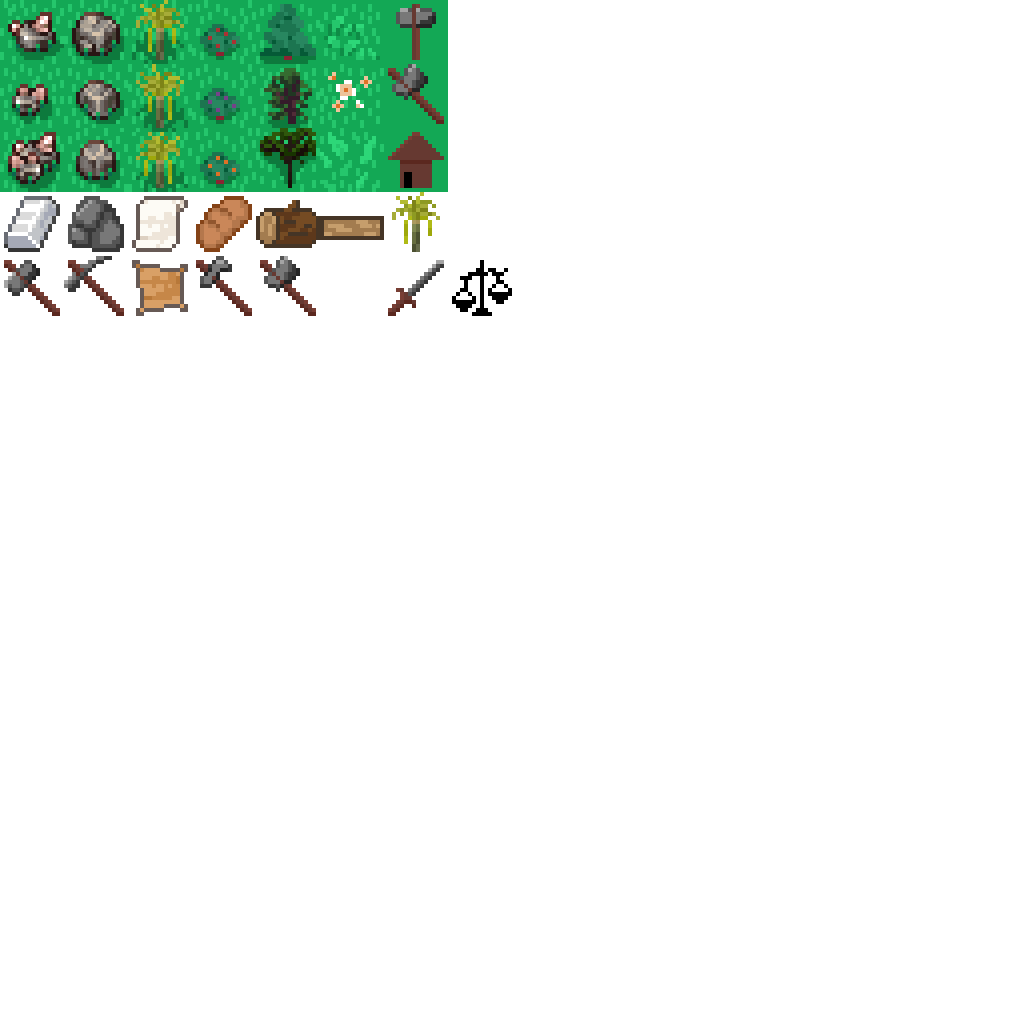
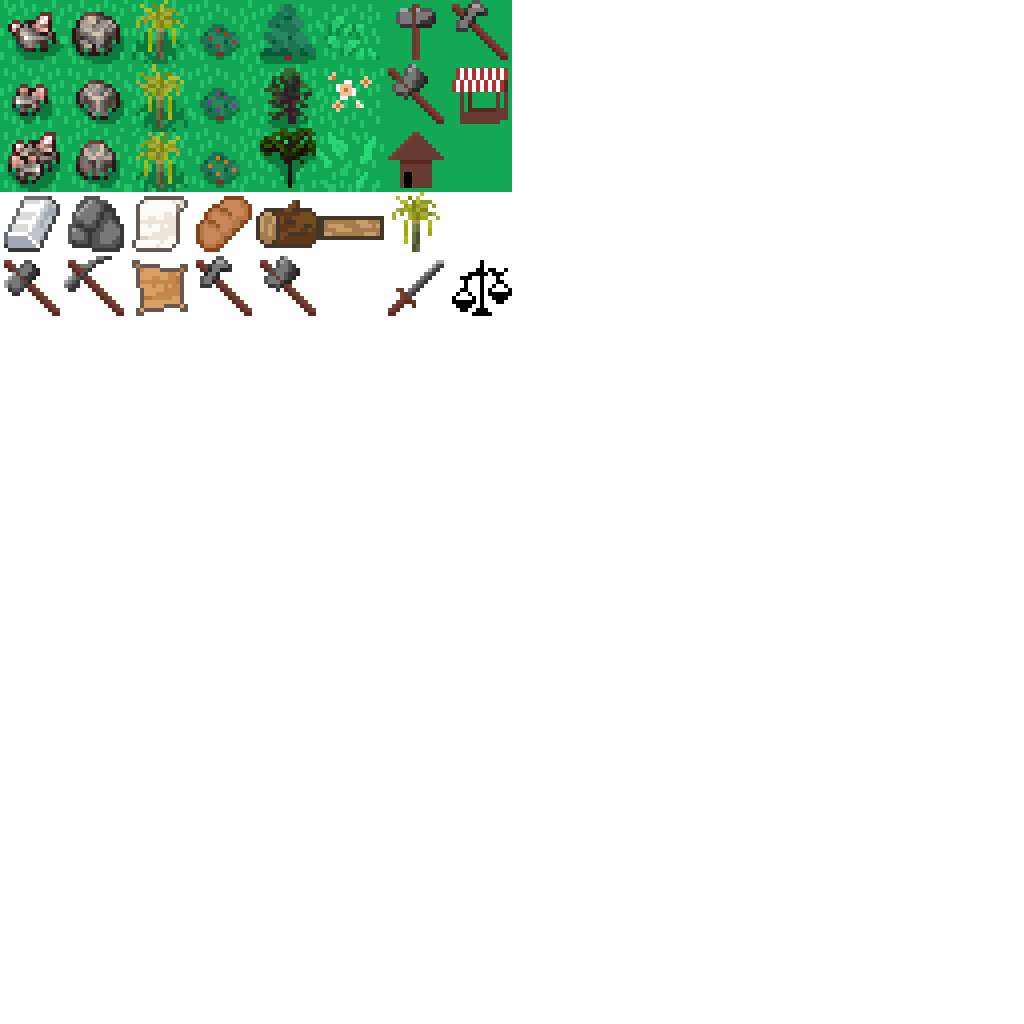
Added gatherers hut Added food market

Changed region(s): [[0.4375, 0.0, 0.5, 0.1875]]

diff --git a/static/js/data.js b/static/js/data.js
@@ -30,55 +30,83 @@ function logData() {
 }
 
 // BUILDINGS
-function getBuildingData(type, id, x, y) {
-    switch(type) {
-        case "buildersHut":
-            return {
-                id: id,
-                x: x,
-                y: y,
-                citizens: [],
-                max_citizens: 3,
-                add_citizen: true,
-                function: {
-                    status: "unstaffed",
-                    available_citizens: [],
-                    onDayStart: (building) => {},
-                }
-            }
-
-        case "lumberCamp":
-            return {
-                id: id,
-                x: x,
-                y: y,
-                citizens: [],
-                max_citizens: 3,
-                add_citizen: true,
-                function: {
-                    radius: 1,
-                    status: "unstaffed",
-                    onDayStart: (building) => {
-                        startLumberCamp(building)
-                    },
-                }
-            }
-
-        case "house":
-            return {
-                id: id,
-                x: x,
-                y: y,
-                citizens: [],
-                max_citizens: 8,
-                private: false,
-                add_citizen: false,
-                function: {
-                    onDayStart: (building) => {},
-                }
-            }
+const baseBuildingTemplate = {
+    init(id, x, y) {
+        this.id = id;
+        this.x = x;
+        this.y = y;
+        this.citizens = [];
+        this.max_citizens = 3;
+        this.add_citizen = true;
     }
-}
+};
+
+const buildingTypes = {
+    buildersHut: {
+        ...baseBuildingTemplate,
+        function: {
+            status: "unstaffed",
+            available_citizens: [],
+            onDayStart: (building) => {}
+        }
+    },
+    lumberCamp: {
+        ...baseBuildingTemplate,
+        function: {
+            radius: 1,
+            status: "unstaffed",
+            onDayStart: (building) => startLumberCamp(building)
+        }
+    },
+    gatherersHut: {
+        ...baseBuildingTemplate,
+        function: {
+            radius: 1,
+            status: "unstaffed",
+            onDayStart: (building) => startGatherersHut(building)
+        }
+    },
+    foodMarket: {
+        ...baseBuildingTemplate,
+        max_citizens: 1,
+        function: {
+            radius: 1,
+            status: "unstaffed",
+            onDayStart: (building) => foodMarket(building)
+        }
+    },
+    house: {
+        ...baseBuildingTemplate,
+        max_citizens: 8,
+        add_citizen: false,
+        function: {
+            onDayStart: (building) => {}
+        }
+    }
+};
+
+const buildingRequirements = {
+    house: {
+        skill: null,
+        resources: { wood: 20 },
+        time: 30,
+    },
+    lumberCamp: {
+        skill: 'foraging',
+        resources: { wood: 5 },
+        time: 15,
+    },
+    gatherersHut: {
+        skill: 'farming',
+        resources: { wood: 5 },
+        time: 15,
+    },
+    foodMarket: {
+        skill: 'trading',
+        resources: { wood: 5 },
+        time: 15,
+    },
+};
 
 let userBuildings = [];
 
@@ -86,11 +114,13 @@ const buildingDescriptions = {
     buildersHut : "Employ citizens to build complex buildings for you.",
     house: "A place where your citizens can live.",
     lumberCamp: "Employ citizens to harvest trees for you.",
+    gatherersHut: "Employ citizens to gather berries for you.",
+    foodMarket: "Provide your citizens with food."
 }
 
 // let userForaging = []; // default
 let userForaging = ['collect', 'lumberCamp']
-let userFarming = ['collect', 'GatherersHut'];
+let userFarming = ['collect', 'gatherersHut'];
 let userMining = [];
 let userTrading = ['foodMarket']
 
@@ -104,7 +134,7 @@ let userResources = {
     wood: 100,
     planks: 0,
     berry: 0,
-    parchment: 0,
+    papyrus: 0,
     stone: 0,
     iron: 0,
 };

diff --git a/static/js/actions.js b/static/js/actions.js
@@ -31,6 +31,9 @@ function getSkill(skill=null) {
 
             case "mining":
                 return userMining
+
+            case "trading":
+                return userTrading
         }
     }
 
@@ -54,6 +57,8 @@ function getSkill(skill=null) {
 }
 
 function collect() {
+    // make villager work
+
     if (userResources.unemployed - 1 < 0) {
         sendAlert('error', `You don't have an available villager.`)
         
@@ -90,60 +95,41 @@ function collect() {
 function build(type) {
     const tile = activeTile;
 
-    let requirements = {};
-
-    switch (type) {
-        case "house":
-            skill = null
-            requirements.wood = 20
-            time = 30
-
-            break;
-
-        case "lumberCamp":
-            skill = 'foraging'
-            requirements.wood = 5
-            time = 15
-
-            break;
-    }
-
-    toggleBuildMenu()
+    toggleBuildMenu();
 
     if (type !== "buildersHut") {
-        if (skill !== null && !getSkill(skill).includes(type)) {
-            sendAlert('error', "You don't know how to build that.")
+        const { skill, resources, time } = buildingRequirements[type];
 
-            return
+        if (skill !== null && !getSkill(skill).includes(type)) {
+            sendAlert('error', "You don't know how to build that.");
+            return;
         }
 
-        if (!hasResources(requirements)) {
-            return
+        if (!hasResources(resources)) {
+            return;
         }
 
         if (!hasIdleBuilder()) {
-            sendAlert('error', "You have no builders available.")
-
-            return
+            sendAlert('error', "You have no builders available.");
+            return;
         }
 
-        useResources(requirements)
+        useResources(resources);
+        buildBuilding(tile, type, time);
 
-        buildBuilding(tile, type, time)
-
-        return
+        return;
     }
 
-    const id = `buildersHut_${new Date().getTime().toString().replace('.', '')}`
+    const id = `buildersHut_${new Date().getTime().toString().replace('.', '')}`;
 
-    tile.setAttribute('class', `tile buildersHut-tile`)
-    tile.setAttribute('type', 'buildersHut')
-    tile.setAttribute('status', 'built')
-    tile.id = id
+    tile.setAttribute('class', `tile buildersHut-tile`);
+    tile.setAttribute('type', 'buildersHut');
+    tile.setAttribute('status', 'built');
+    tile.id = id;
 
-    userBuildings.push(getBuildingData(type, id, parseInt(tile.getAttribute('pos-x')), parseInt(tile.getAttribute('pos-y'))))
+    userBuildings.push(getBuildingData(type, id, parseInt(tile.getAttribute('pos-x')), parseInt(tile.getAttribute('pos-y'))));
 
-    updateActionsMenu()
+    updateActionsMenu();
 }
 
 function addCitizen(buildingId) {

diff --git a/static/js/ui.js b/static/js/ui.js
@@ -51,21 +51,17 @@ const resourceIndicators = {
 function updateResource(type, amount, overwrite=false) {
     const indicator = resourceIndicators[type];
 
-    if (indicator) {
-        if (overwrite) {
-            userResources[type] = amount;
-        } else {
-            userResources[type] += amount;
-        }
-        
-        if (type === "clock") {
-            text = userResources[type] > 9 ? userResources[type] : `0${userResources[type]}`
+    userResources[type] = overwrite ? amount : userResources[type] + amount;
 
-            indicator.innerText = text;
-        } else {
-            indicator.innerText = userResources[type];
-        }
+    let displayText;
+
+    if (type === "clock") {
+        displayText = userResources[type].toString().padStart(2, '0');
+    } else {
+        displayText = userResources[type];
     }
+
+    indicator.innerText = displayText;
 }
 
 /* MENU */
@@ -111,8 +107,6 @@ let activeTile = null
 function openActionMenu(tile) {
     if (activeTile === tile) {
         itemMenu.style.display = 'none';
-
-        activeTile = null
 
         return
     }

diff --git a/templates/app/class.html b/templates/app/class.html
@@ -64,8 +64,10 @@
         <span class="title">Build</span>
 
         <button onclick="build('buildersHut')">Builders hut</button>
-        <button onclick="build('house')">House</button>
         <button onclick="build('lumberCamp')">Lumber camp</button>
+        <button onclick="build('gatherersHut')">Gatherers hut</button>
+        <button onclick="build('foodMarket')">Food market</button>
+        <button onclick="build('house')">House</button>
     </div>
 
     <div class="tab active" id="loading-tab">

diff --git a/static/js/buildings.js b/static/js/buildings.js
@@ -1,4 +1,12 @@
-// building
+function getBuildingData(type, id, x, y) {
+    const building = Object.create(buildingTypes[type]);
+
+    building.init(id, x, y);
+    
+    return building;
+}
+
+// builder
 function hasIdleBuilder() {
     return userBuildings.some(building => building.id.startsWith("buildersHut") && building.function.available_citizens.length > 0);
 }

diff --git a/static/css/map.css b/static/css/map.css
@@ -116,3 +116,9 @@ body, html {
 .house-tile {
     background-position: -384px -128px;
 }
+.gatherersHut-tile {
+    background-position: -448px -0px;
+}
+.foodMarket-tile {
+    background-position: -448px -64px;
+}

diff --git a/static/js/class.js b/static/js/class.js
@@ -35,6 +35,8 @@ async function loadTabContents(tabId) {
         spawnCitizen()
         spawnCitizen()
         spawnCitizen()
+        spawnCitizen()
+        spawnCitizen()
 
         generateMap(1)
 
